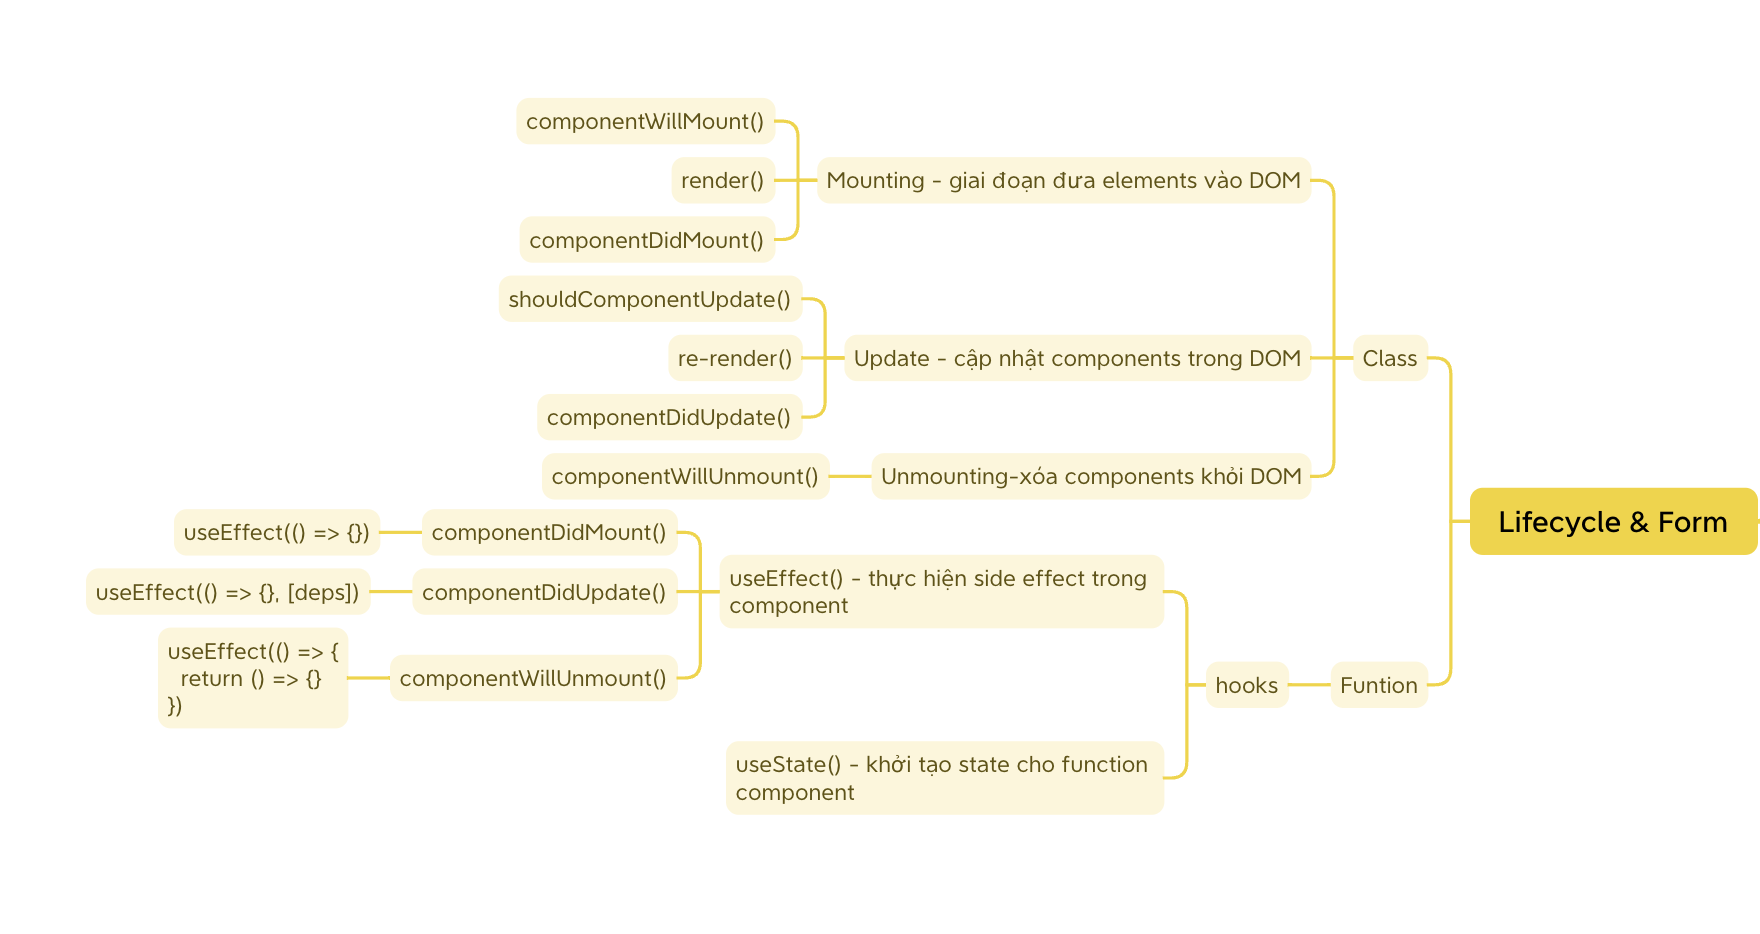
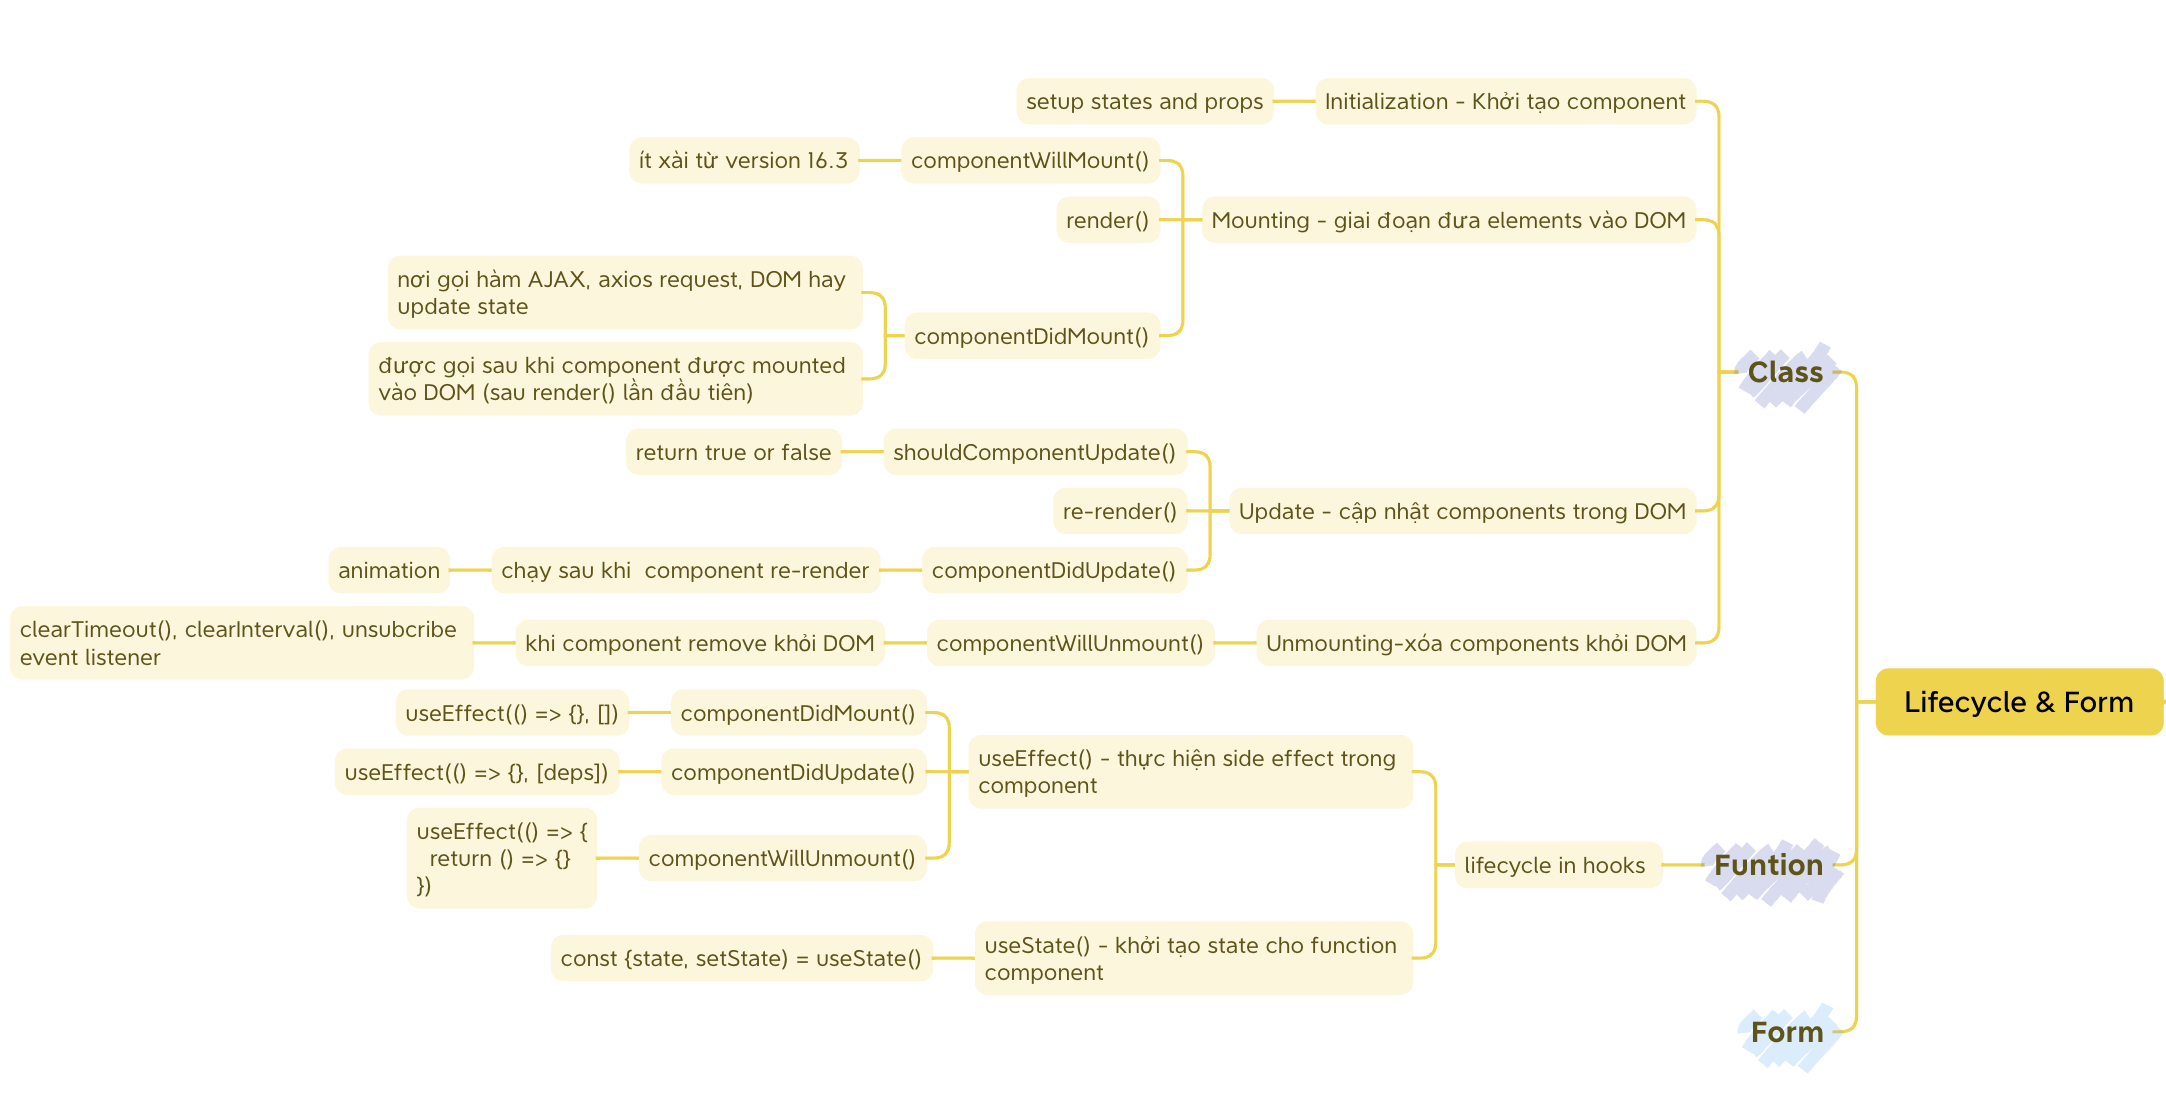
update session 3

Changed region(s): [[0.0, 0.0621, 1.0, 0.9004], [0.7812, 0.9004, 0.875, 0.9625]]

diff --git a/src/pages/session3/practice/Forms/Register.jsx b/src/pages/session3/practice/Forms/Register.jsx
@@ -1,0 +1,137 @@
+import React, { Component } from "react";
+
+export default class Register extends Component {
+  render() {
+    return (
+      <>
+        <section className="vh-100" style={{ backgroundColor: "white" }}>
+          <div className="container h-100">
+            <div className="row d-flex justify-content-center align-items-center h-100">
+              <div className="col-lg-12 col-xl-11">
+                <div className="card text-black" style={{ borderRadius: 25 }}>
+                  <div className="card-body p-md-5">
+                    <div className="row justify-content-center">
+                      <div className="col-md-10 col-lg-6 col-xl-5 order-2 order-lg-1">
+                        <p className="text-center h1 fw-bold mb-5 mx-1 mx-md-4 mt-4">
+                          Sign up
+                        </p>
+                        <form className="mx-1 mx-md-4">
+                          <div className="d-flex flex-row align-items-center mb-4">
+                            <i className="fas fa-user fa-lg me-3 fa-fw" />
+                            <div className="form-outline flex-fill mb-0">
+                              <input
+                                type="text"
+                                id="form3Example1c"
+                                className="form-control"
+                              />
+                              <label
+                                className="form-label"
+                                htmlFor="form3Example1c"
+                              >
+                                Your Name
+                              </label>
+                            </div>
+                          </div>
+                          <div className="d-flex flex-row align-items-center mb-4">
+                            <i className="fas fa-envelope fa-lg me-3 fa-fw" />
+                            <div className="form-outline flex-fill mb-0">
+                              <input
+                                type="email"
+                                id="form3Example3c"
+                                className="form-control"
+                              />
+                              <label
+                                className="form-label"
+                                htmlFor="form3Example3c"
+                              >
+                                Your Email
+                              </label>
+                            </div>
+                          </div>
+                          <div className="d-flex flex-row align-items-center mb-4">
+                            <i className="fas fa-lock fa-lg me-3 fa-fw" />
+                            <div className="form-outline flex-fill mb-0">
+                              <input
+                                type="password"
+                                id="form3Example4c"
+                                className="form-control"
+                              />
+                              <label
+                                className="form-label"
+                                htmlFor="form3Example4c"
+                              >
+                                Password
+                              </label>
+                            </div>
+                          </div>
+                          <div className="d-flex flex-row align-items-center mb-4">
+                            <i className="fas fa-key fa-lg me-3 fa-fw" />
+                            <div className="form-outline flex-fill mb-0">
+                              <input
+                                type="password"
+                                id="form3Example4cd"
+                                className="form-control"
+                              />
+                              <label
+                                className="form-label"
+                                htmlFor="form3Example4cd"
+                              >
+                                Repeat your password
+                              </label>
+                            </div>
+                          </div>
+                          <div className="form-check d-flex justify-content-center mb-5">
+                            <input
+                              className="form-check-input me-2"
+                              type="checkbox"
+                              defaultValue=""
+                              id="form2Example3c"
+                            />
+                            <label
+                              className="form-check-label"
+                              htmlFor="form2Example3"
+                            >
+                              I agree all statements in{" "}
+                              <a href="#!">Terms of service</a>
+                            </label>
+                          </div>
+                          <div className="d-flex justify-content-center mx-4 mb-3 mb-lg-4">
+                            <button
+                              type="button"
+                              className="btn btn-primary btn-lg"
+                            >
+                              Register
+                            </button>
+                          </div>
+                          <p className="text-center text-muted mt-5 mb-0">
+                            Have already an account?{" "}
+                            <a
+                              onClick={() => {
+                                this.props.handleSwitchPage();
+                              }}
+                              href="#!"
+                              className="fw-bold text-body"
+                            >
+                              <u>Login here</u>
+                            </a>
+                          </p>
+                        </form>
+                      </div>
+                      <div className="col-md-10 col-lg-6 col-xl-7 d-flex align-items-center order-1 order-lg-2">
+                        <img
+                          src="https://mdbcdn.b-cdn.net/img/Photos/new-templates/bootstrap-registration/draw1.webp"
+                          className="img-fluid"
+                          alt="Sample image"
+                        />
+                      </div>
+                    </div>
+                  </div>
+                </div>
+              </div>
+            </div>
+          </div>
+        </section>
+      </>
+    );
+  }
+}

diff --git a/src/pages/session3/practice/Forms/Login.jsx b/src/pages/session3/practice/Forms/Login.jsx
@@ -1,0 +1,116 @@
+import { Component } from "react";
+import "./Login.scss";
+export default class Login extends Component {
+  render() {
+    return (
+      <>
+        <section className="vh-100">
+          <div className="container-fluid h-custom">
+            <div className="row d-flex justify-content-center align-items-center h-100">
+              <div className="col-md-9 col-lg-6 col-xl-5">
+                <img
+                  src="https://mdbcdn.b-cdn.net/img/Photos/new-templates/bootstrap-login-form/draw2.webp"
+                  className="img-fluid"
+                  alt="Sample image"
+                />
+              </div>
+              <div className="col-md-8 col-lg-6 col-xl-4 offset-xl-1">
+                <form>
+                  <div className="d-flex flex-row align-items-center justify-content-center justify-content-lg-start">
+                    <p className="lead fw-normal mb-0 me-3">Sign in with</p>
+                    <button
+                      type="button"
+                      className="btn btn-primary btn-floating mx-1"
+                    >
+                      <i className="fab fa-facebook-f" />
+                    </button>
+                    <button
+                      type="button"
+                      className="btn btn-primary btn-floating mx-1"
+                    >
+                      <i className="fab fa-twitter" />
+                    </button>
+                    <button
+                      type="button"
+                      className="btn btn-primary btn-floating mx-1"
+                    >
+                      <i className="fab fa-linkedin-in" />
+                    </button>
+                  </div>
+                  <div className="divider d-flex align-items-center my-4">
+                    <p className="text-center fw-bold mx-3 mb-0">Or</p>
+                  </div>
+                  {/* Email input */}
+                  <div className="form-outline mb-4">
+                    <input
+                      type="email"
+                      id="form3Example3"
+                      className="form-control form-control-lg"
+                      placeholder="Enter a valid email address"
+                    />
+                    <label className="form-label" htmlFor="form3Example3">
+                      Email address
+                    </label>
+                  </div>
+                  {/* Password input */}
+                  <div className="form-outline mb-3">
+                    <input
+                      type="password"
+                      id="form3Example4"
+                      className="form-control form-control-lg"
+                      placeholder="Enter password"
+                    />
+                    <label className="form-label" htmlFor="form3Example4">
+                      Password
+                    </label>
+                  </div>
+                  <div className="d-flex justify-content-between align-items-center">
+                    {/* Checkbox */}
+                    <div className="form-check mb-0">
+                      <input
+                        className="form-check-input me-2"
+                        type="checkbox"
+                        defaultValue=""
+                        id="form2Example3"
+                      />
+                      <label
+                        className="form-check-label"
+                        htmlFor="form2Example3"
+                      >
+                        Remember me
+                      </label>
+                    </div>
+                    <a href="#!" className="text-body">
+                      Forgot password?
+                    </a>
+                  </div>
+                  <div className="text-center text-lg-start mt-4 pt-2">
+                    <button
+                      type="button"
+                      className="btn btn-primary btn-lg"
+                      style={{ paddingLeft: "2.5rem", paddingRight: "2.5rem" }}
+                    >
+                      Login
+                    </button>
+                    <p className="small fw-bold mt-2 pt-1 mb-0">
+                      Don't have an account?{" "}
+                      <a
+                        onClick={() => {
+                          this.props.handleSwitchPage();
+                        }}
+                        href="#!"
+                        className="link-danger"
+                      >
+                        Register
+                      </a>
+                    </p>
+                  </div>
+                </form>
+              </div>
+            </div>
+          </div>
+        </section>
+      </>
+    );
+  }
+}

diff --git a/src/pages/session3/practice/Forms/Form.jsx b/src/pages/session3/practice/Forms/Form.jsx
@@ -1,0 +1,31 @@
+import { Component } from "react";
+import Login from "./Login";
+import Register from "./Register";
+import "./Form.scss";
+
+export default class Form extends Component {
+  constructor(props) {
+    super(props);
+    this.state = {
+      isLoginPage: true, // true: login page, false: register
+    };
+  }
+
+  handleSwitchPage = () => {
+    this.setState({
+      isLoginPage: !this.state.isLoginPage,
+    });
+  };
+
+  render() {
+    return (
+      <>
+        {this.state.isLoginPage ? (
+          <Login handleSwitchPage={this.handleSwitchPage} />
+        ) : (
+          <Register handleSwitchPage={this.handleSwitchPage} />
+        )}
+      </>
+    );
+  }
+}

diff --git a/src/routes/index.jsx b/src/routes/index.jsx
@@ -10,6 +10,7 @@ import RollDice from "@/pages/session2/practice/RollDice/RollDice";
 //session3
 import LifeCycle from "@/pages/session3";
 import Session3 from "@/pages/session3/demo";
+import Form from "@/pages/session3/practice/Forms/Form";
 
 //note
 import Note from "@/components/Note";
@@ -29,6 +30,7 @@ export default function Router() {
       <Route path="/session3" element={<LifeCycle />} />
 
       <Route path="/session3/lifeCycle" element={<Session3 />} />
+      <Route path="/session3/loginForm" element={<Form />} />
 
       <Route path="/note" element={<Note />} />
     </Routes>

diff --git a/src/components/Sidebar.jsx b/src/components/Sidebar.jsx
@@ -70,6 +70,12 @@ const menuItems = [
           },
         ],
       },
+      {
+        key: "session3",
+        icon: <RocketOutlined />,
+        label: "Session3",
+        link: "/session3/loginForm",
+      }
     ],
   },
   {

diff --git a/src/pages/session3/practice/Forms/Login.scss b/src/pages/session3/practice/Forms/Login.scss
@@ -1,0 +1,15 @@
+.divider:after,
+.divider:before {
+  content: "";
+  flex: 1;
+  height: 1px;
+  background: #eee;
+}
+.h-custom {
+  height: calc(100% - 73px);
+}
+@media (max-width: 450px) {
+  .h-custom {
+    height: 100%;
+  }
+}
